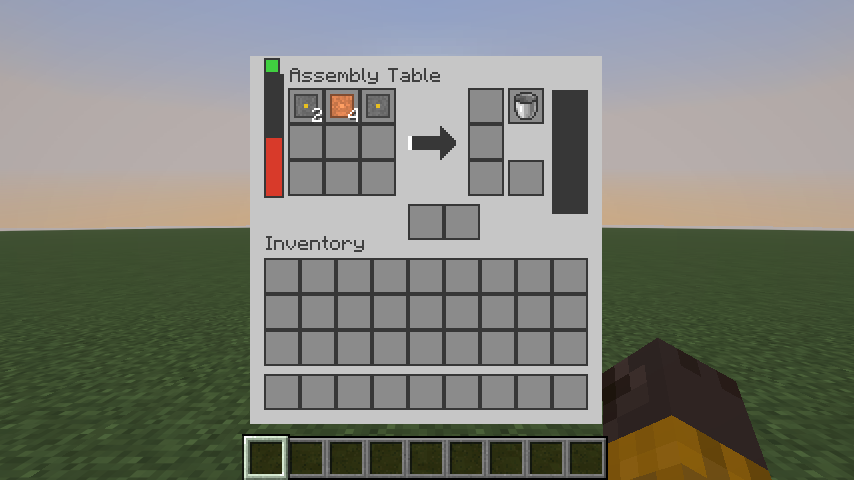
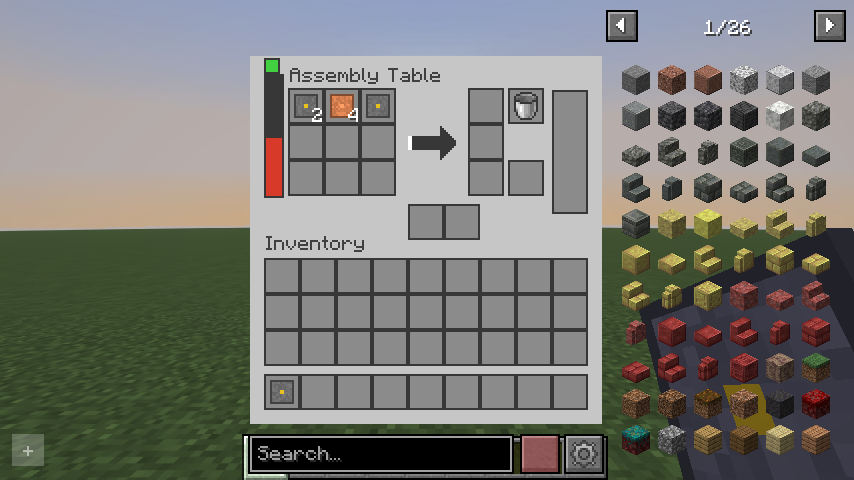
M2: Abschluss Meilenstein 2 (Teilschritt 2f), Testbericht M2d-M2f, neue README-Bilder
- step 2f: README-Status 2a-2f fertig, Abnahme offen (Pruefungen von Hand stehen in stand-m2.md)
- Testbericht docs/dev/testbericht-m2def.md: 54 Server-GameTests je Loader, 27 JUnit, Client-Tests mit JEI (NeoForge) und REI (Fabric), gefundene Fehler
- README: Taste H und JEI/REI; Bilder aus den Client-Tests aufgefrischt (Weltfoto, Montagetisch, Elektrolyseur, Raffinerie, Geisterprojektion) und Handbuch ergaenzt
- Skill: JEI/REI, Rezepte auf dem Client, Wiki-Pflicht; MachineScreen ohne ungenutzte Imports

diff --git a/common/src/main/java/de/sternenwerft/client/MachineScreen.java b/common/src/main/java/de/sternenwerft/client/MachineScreen.java
@@ -1,6 +1,5 @@
 package de.sternenwerft.client;
 
-import de.sternenwerft.Sternenwerft;
 import de.sternenwerft.block.MachineStatus;
 import de.sternenwerft.core.fluid.FluidIds;
 import de.sternenwerft.machine.MachineBlock;
@@ -10,7 +9,6 @@ import de.sternenwerft.menu.MachineGeometry;
 import de.sternenwerft.menu.MachineMenu;
 import de.sternenwerft.network.MachineConfigPayload;
 import de.sternenwerft.platform.Services;
-import de.sternenwerft.registry.ModFluids;
 import net.minecraft.client.gui.GuiGraphicsExtractor;
 import net.minecraft.client.gui.components.Button;
 import net.minecraft.client.gui.screens.inventory.AbstractContainerScreen;

diff --git a/docs/dev/testbericht-m2def.md b/docs/dev/testbericht-m2def.md
@@ -1,19 +1,22 @@
-# Testbericht: M2d (Montagetisch, Elektrolyseur, Raffinerie, Ports)
+# Testbericht: M2d bis M2f (Abschluss Meilenstein 2)
 
-Stand: 11.11.2026, Commit `3e18d9f`. Vorherige Runde: `docs/dev/testbericht-m2abc.md`.
+Stand: 11.11.2026. Client-Tests: NeoForge mit JEI auf 63a2337, Fabric mit REI auf c620fae (beide grün). Die Korrekturen aus der Sichtprüfung (JEI-Slotrahmen, REI-Fluide, Taste H) folgen in dc1f53b und dc527cc; deren CI-Läufe brachen ab, weil GitHub keinen Runner bereitstellte, und laufen mit dem nächsten Push erneut. Vorherige Runde: `docs/dev/testbericht-m2abc.md`.
 
 ## Ergebnis
 
 | Bereich | NeoForge | Fabric |
 | --- | --- | --- |
 | Build (beide Loader) | grün | grün |
-| JUnit (22 Tests, davon 4 neu) | grün | grün |
-| Server-GameTests (42 eigene + 1 vom Loader, davon 11 neu) | 43/43 (lokal) | 43/43 (lokal) |
-| Client-Test mit Screenshots | CI_NEOFORGE | CI_FABRIC |
+| JUnit (27 Tests, davon 13 neu) | grün | grün |
+| Server-GameTests (53 eigene + 1 vom Loader, davon 22 neu) | 54/54 | 54/54 |
+| Leistungstest 100 Zerkleinerer (Grenze 1 ms lokal, 3 ms auf GitHub) | lokal 0,43–0,50 ms | lokal 0,68–0,85 ms |
+| Client-Test mit Screenshots | bestanden (23/23 Prüfungen, mit JEI) | bestanden (20 Bilder, mit REI) |
+| `gen_resources.py`, `gen_wiki.py --check` | aktuell | aktuell |
 
-## Neue Server-GameTests
+Alle Beispielrezepte aus 27.2 laufen in einem GameTest-Durchlauf (Abschlusskriterium M2f): Zerkleinerer (Bauxit), Elektroofen (Quarzsand), Presse (Titanplatte), Elektrolyseur, Raffinerie, Montagetisch (Schaltkreis), Pumpe, Treibstoffgenerator, Akku, Kupferrohr, dazu die Kette Roh-Titan → Platte.
 
-Liste in `common/gametests.json`, Testlogik in `SwGameTestsM2d`.
+## M2d: neue Server-GameTests (`SwGameTestsM2d`)
+
 
 | Test | Prüft | Spez. | Zeit |
 | --- | --- | --- | --- |
@@ -29,7 +32,25 @@ Liste in `common/gametests.json`, Testlogik in `SwGameTestsM2d`.
 | electrolyzer_tankselection | Tankwahl unter den 2 Ausgangstanks, begrenzt, Sync-Wert stimmt | 4.1 | 20 |
 | tank_rejects_gas | Tank nimmt Kerosin, aber keinen Wasserstoff | 6.3 | 20 |
 
-## Neue JUnit-Tests (`M2dRulesTest`)
+## M2e und M2f: neue Server-GameTests (`SwGameTestsM2e`, `SwGameTestsM2f`)
+
+| Test | Prüft | Spez. | Zeit |
+| --- | --- | --- | --- |
+| fuelgenerator_kerosenebucket_80jt | Kerosin-Eimer im Leerslot: Tank gefüllt, leerer Eimer bleibt, genau 800 J in 10 t (80 J/t) | 27.3 M2e | 20 |
+| fuelgenerator_4mb_16ticks | 4 mB Kerosin reichen 16 t mit 80 J/t, danach `idle` | 27.2 | 30 |
+| battery_outputsideonly | Akku gibt nur über die Ausgangsseite ab: Zerkleinerer davor bekommt Energie, der seitliche nicht | 27.3 M2e, 4.4 | 20 |
+| battery_io512_platformapi | höchstens 512 J/t Eingang je Tick über die Loader-API; Ausgangsseite nimmt nichts an; Verbraucher nur mit Loader-API bekommt 5.120 J in 10 t | 27.2, 3.3 | 20 |
+| battery_chargeslot | Ladeslot nimmt nur ladbare Items; lädt das Loader-Test-Item und einen Akku als Item (Komponente) | 6.3 | 20 |
+| battery_broken_keepsenergy | abgebauter Akku behält 123.456 J als `sternenwerft:energy`; Platzieren stellt sie wieder her | 4.1 | 20 |
+| performance_100crushers_meantick | 100 laufende Zerkleinerer an 10 Kabelnetzen, Mittel der Tick-Zeit über 200 t ≤ 1 ms (GitHub 3 ms), eigene Testumgebung | 27.2 | 240 |
+| handbook_joingift_once | Handbuch-Geschenk genau einmal je Spieler | 24.1, 27.3 M2f | 20 |
+| crusher_bauxite_twoaluminumdustwithin220ticks | 1 Bauxit → 2 Aluminiumstaub | 27.2 | 220 |
+| furnace_quartzsand_siliconwithin110ticks | 1 Quarzsand → 1 Silizium im Elektroofen | 27.2 | 110 |
+| press_titaniumplatewithin110ticks | 1 Titanbarren + Pressform → 1 Titanplatte | 27.2 | 110 |
+
+## Neue JUnit-Tests
+
+Dazu kommen die 4 Tests aus `M2dRulesTest`:
 
 | Test | Prüft |
 | --- | --- |
@@ -37,10 +58,41 @@ Liste in `common/gametests.json`, Testlogik in `SwGameTestsM2d`.
 | exactMatchSumsSlotsAndRejectsSurplus | 64 + 32 = 96 Platten passt; Überschuss, fremdes Item, zu wenig passen nicht |
 | refineryPatternHas44PartsWithinNotifyRadius | Raffinerie-Muster aus `spec/data`: 44 Plätze, alle im Meldeabstand |
 | hollowPatternHasAirInside | Fusionsreaktor-Muster (`hollow_shell`): 97 Hüllenplätze + 27 Luft |
+| categoriesComeFromRecipeTypes | Kategorien der Rezeptanzeige aus den Rezeptarten, Katalysatoren aus machines.json (3.9) |
+| addonKindGetsOwnNamespace | Rezeptart eines Addons bekommt `jei.<namespace>.<art>` und ihre Maschine als Katalysator |
+| multiplierDoublesStackableIngredients | Multiplikator 2,0: 4 Platten → 8; unstapelbare bleiben; Begrenzung auf 9 Slots (22.3) |
+| parsesLinksItemsAndBold, boldAppliesToLinksAndUnclosedMarkupStaysText | Handbuch-Markup `[[…]]`, `<item:…>`, `**…**` (25.6) |
 
 ## Client-Tests
 
-CLIENT_SECTION
+Beide Client-Tests laufen bei jedem Push in der CI mit Software-Grafik (Mesa). Die Bilder liegen in den Branches `ci-screenshots` (Fabric) und `ci-screenshots-neoforge`.
+
+**NeoForge** (`NeoForgeClientTest`, mit JEI über `-PwithJei`): 23 Prüfungen, alle bestanden (Lauf für 63a2337).
+
+| Prüfung | Ergebnis |
+| --- | --- |
+| Config-Sync, Knopf „Seite“ (Server Nord → Süd), Knopf „Tank“ (Server wählt Tank 2) | ✔ |
+| GUIs öffnen per Rechtsklick: Tank (leer, mit Erdöl), Zerkleinerer, Elektroofen, Presse, Verbrennungsgenerator, Pumpe, Montagetisch, Elektrolyseur, Raffinerie, Treibstoffgenerator, Akku | ✔ 12 × |
+| Raffinerie per Daten-Muster aufgebaut, Aufbau vollständig; Sneak-Rechtsklick startet die Geisterprojektion ohne GUI | ✔ |
+| Handbuch: öffnen, einem Link folgen, Seite des Zerkleinerers finden; Geschenk höchstens einmal | ✔ |
+| JEI: Plugin aktiv, Rezepte vom Server angekommen, Kategorien Raffinieren und Montage öffnen sich | ✔ |
+
+**Fabric** (`SwClientGameTests`, mit REI über `-PwithRei`): bestanden, 20 Bilder (Lauf für c620fae).
+
+| Prüfung | Ergebnis |
+| --- | --- |
+| Handbuch-Geschenk beim ersten Join: genau eins im Inventar | ✔ |
+| Config-Sync, Knopf „Seite“, Knopf „Tank“ | ✔ |
+| GUIs aller Maschinen, Generatoren und Speicher, Raffinerie mit Geisterprojektion, Weltfoto mit allen Blöcken | ✔ 18 Bilder |
+| Handbuch: Willkommen, gefolgter Link, Seite des Zerkleinerers | ✔ |
+| REI: Plugin aktiv, Rezepte angekommen, Haken für Taste H gesetzt, Kategorien Raffinieren und Montage öffnen sich | ✔ |
+
+**Sichtprüfung der Screenshots:**
+
+- Handbuch: Inhaltsverzeichnis mit Kapiteln, Seite mit Fettdruck, Listen, Steckbrief, Rezept als Symbole (3 × 3-Raster der Werkbank), Bildlaufleiste. Im CI-Client (Englisch) stehen Titel auf Englisch, Seitentext auf Deutsch; englische Seiten kommen mit M9 (CLAUDE.md).
+- JEI: Raffinieren zeigt Erdöl → Kunststoff + Kerosin mit „200 t · 8000 J“, Montage den Schaltkreis mit Mengen. **Gefunden:** Der große Ausgaberahmen überdeckte den Kerosin-Slot daneben; behoben (normaler Rahmen).
+- REI: Kategorien mit Maschine als Werkbank, Mengen, Dauer und Energie. **Gefunden:** Fluid-Slots (Erdöl, Kerosin, Wasser) blieben leer, weil Architectury unter Fabric 26.3 nur eigene Fluide zeichnet; dazu ein überflüssiger „!“-Knopf. Behoben: eigener Zeichner (Farbfläche wie in den Maschinen-GUIs) und `removePlusButton`.
+- Treibstoffgenerator: Füllslot hat aus dem Tank einen Kerosin-Eimer gemacht, Brennzeit-Pfeil, Statuslampe grün. Akku: Ladeslot mit Akku-Item, Knopf „Seite“, kein Pfeil.
 
 ## Gefundene und behobene Fehler
 
@@ -48,9 +100,20 @@ CLIENT_SECTION
 | --- | --- | --- |
 | Maschinen, Kabel und Rohre ließen sich mit einer Holzspitzhacke abbauen (Tag `needs_stone_tool` fehlte, 4.1) | Prüfung der Tags beim Erweitern von `gen_resources` | M2d |
 | Rezepte ohne Item-Zutat hätte der Rezeptmanager nie gefunden (`RecipeInput#isEmpty`) | Durchsicht der 26.3-API vor dem Test | `MachineRecipeInput#isEmpty` zählt Tanks mit |
+| Upgrades des Elektrolyseurs lagen auf der Inventar-Beschriftung; Knopf „Tank“ zu schmal; Erdöl in der Leiste unsichtbar (schwarz auf dunkel) | Screenshots M2d | `MachineGeometry`, Knopf „T1–T3“ mit Tooltip, heller Leistenhintergrund |
+| Geisterprojektion im Screenshot nicht zu sehen (fehlender Block hinten oben) | Screenshots M2d | Client-Tests entfernen ein Gehäuse in der Vorderseite |
+| 100 Zerkleinerer brauchten 3,4 ms je Tick: Balance-JSON wurde jeden Tick gelesen, Maschinen jeden Tick neu eingerichtet, Komparator-Meldungen bei jedem `setChanged` | Leistungstest (27.2) mit Zeitmessung je Teil | Zwischenspeicher in `BalanceManager`, Neueinrichtung nur nach `/reload`, letztes Rezept zuerst, `setChanged` ohne Komparatoren: 0,4–0,9 ms |
+| Leistungstest maß die anderen 50 Tests mit | Messung über `onEachTick` | eigene Testumgebung (eigener Durchgang) und Server-eigene Tick-Zeit |
+| Kerosin-Eimer stapelte bis 64 statt 1 (4.1) | Prüfung von `items.json` beim Handbuch-Item | einfache Items übernehmen `max_stack` |
+| Client-Tests scheiterten an einem Ausfall des Ubuntu-Paketspiegels | CI (99f069b) | `apt-get` mit bis zu 3 Versuchen |
+| JEI: großer Ausgaberahmen überdeckte den Fluid-Slot daneben | Screenshot JEI (63a2337) | normaler Slotrahmen |
+| REI: Fluid-Slots leer, „!“-Knopf ohne Funktion | Screenshot REI (c620fae) | eigener Fluid-Zeichner, Knopf entfernt |
 
 ## Nicht automatisch geprüft
 
-- Aussehen der Geisterprojektion über längere Zeit (nur Momentaufnahme).
-- Trichter an Item-Ports in der echten Welt (geprüft über die Container-Schnittstelle).
-- Zusammenspiel der Ports mit Rohren und Kabeln fremder Mods.
+- **JEI unter Fabric und REI unter NeoForge:** Geprüft sind JEI unter NeoForge und REI unter Fabric; die Plugin-Logik ist dieselbe.
+- **EMI:** gibt es für 26.3 nicht (spec-gaps #33).
+- **Taste `H` per echtem Tastendruck:** Die Client-Tests prüfen nur, dass die Haken gesetzt sind und kein Suchfeld aktiv ist (spec-gaps #36).
+- **Aussehen der Geisterprojektion über längere Zeit** (nur Momentaufnahme).
+- **Trichter an Item-Ports in der echten Welt** (geprüft über die Container-Schnittstelle).
+- **Zusammenspiel mit echten fremden Mods** (Ports, Akku, Ladeslot): geprüft mit Test-Verbraucher und Test-Item über die Loader-APIs.

diff --git a/docs/dev/stand-m2.md b/docs/dev/stand-m2.md
@@ -70,13 +70,31 @@ Stand: 11.11.2026. Umfang und Teilschritte stehen in `docs/spec/27-meilensteine.
   - `gen_placeholders.py` überschreibt vorhandene Texturen nur noch mit `--force`, damit fertige Grafiken sicher sind.
   - **Annahmen:** spec-gaps #30 bis #32.
 
+- **M2f:** Rezeptanzeige, Handbuch, Abschluss.
+  - **Mengen-Multiplikator** (`AmountMultiplier`, reine Funktion) im exakten Abgleich des Montagetischs und in allen Anzeigen.
+  - **Rezeptanzeige:**
+    - Der Server schickt die eigenen Rezeptarten zum Client (`ClientRecipes`). `RecipeView` bereitet sie für JEI und REI gleich auf.
+    - Plugins für JEI (31.17.0.109) und REI (26.3.824), nur `compileOnly`. EMI gibt es für 26.3 nicht.
+    - Addons zeigen eigene Arten mit `SternenwerftApi.showInRecipeViewers(kind)`.
+  - **Handbuch:**
+    - `HandbookMarkup` (reine Funktion) und `HandbookData` (Seiten aller Namespaces).
+    - `HandbookScreen` mit Inhaltsverzeichnis, Suche, Links, Item-Links, Rezepten, Steckbriefen, Tabellen, Hinweiskästen, Zurück und Lesezeichen.
+    - Taste `H` über Items in Inventaren, Tooltip-Hinweis, Geschenk beim ersten Join.
+  - **Items:** `engineers_handbook` und `planetary_atlas` registriert; einfache Items übernehmen `max_stack` aus items.json (Kerosin-Eimer stapelt bis 1).
+  - **Tests:** Join-Geschenk, die drei noch fehlenden Beispielrezepte aus 27.2, JUnit für Kategorien, Multiplikator und Markup. Client-Tests öffnen das Handbuch und folgen einem Link; der NeoForge-Client-Test lädt JEI (`-PwithJei`) und fotografiert die Kategorien.
+  - **Annahmen:** spec-gaps #33 bis #37.
+
 - **Testrunde M1–M2c:** 31 Server-GameTests auf beiden Loadern, 18 JUnit-Tests, Client-Tests auf Fabric **und NeoForge** (Knopf-Klick, Config-Sync, alle GUIs mit Screenshots), alles grün. Bericht: `docs/dev/testbericht-m2abc.md`.
 
-## Noch manuell zu prüfen
+## Noch manuell zu prüfen (Abnahme M2)
 
-- Bauxit kommt in der Savanne vor (27.3).
-- GUIs im echten Client bedienen (Shift-Klick, Trichter).
+Alles andere prüfen die GameTests und Client-Tests bei jedem Push (`docs/dev/testbericht-m2def.md`).
+
+- Bauxit kommt in der Savanne vor: mindestens 6 Adern in 25 Chunks nach `/locate biome minecraft:savanna` (27.3 M2b).
+- GUIs mit Maus bedienen: Ziehen und Ablegen, Shift-Klick, Trichter an Item-Ports.
+- Taste `H` per echtem Tastendruck im Inventar, in JEI und in REI; beim Tippen in Suchfeldern darf das Handbuch nicht aufgehen.
+- Geisterprojektion über die volle Dauer ansehen (200 t).
 
 ## Nächster Schritt
 
-M2f: JEI/REI/EMI-Kategorien, `recipe_amount_multiplier`, Übersetzungen, Handbuch- und Atlas-Items, Abschlusslauf aller Beispielrezepte (27.3). Die Annahmen stehen in `docs/spec-gaps.md` bis #32.
+Meilenstein 3 (Erste Welt): Planeten-Registry, Mond, Schwerkraft, Umweltsystem, HUD, Anzug T1, Sauerstoffgenerator, Kuppel T1, Kanister in Füll- und Leerslots, Agentur-Kern (27). Die Annahmen stehen in `docs/spec-gaps.md` bis #37.

diff --git a/README.md b/README.md
@@ -45,7 +45,7 @@ Dazwischen liegt eine Reise durch das echte Sonnensystem: Du baust auf der Erde 
 | 🛰 **Raumstationen** | Eigene Stationen im Orbit mit Schwerelosigkeit, Solarflügeln, Fusionsreaktor und Schwerelos-Fertigung. |
 | 📦 **Logistik-Netz** | Außenposten, Bohrtürme und Frachtraketen versorgen deine Kolonien, auch wenn du nicht vor Ort bist. |
 | 🤝 **Mehrspieler** | Agenturen teilen Forschung, Atlas und Frachtnetz. Handel zwischen Agenturen. |
-| 📖 **Handbuch im Spiel** | Das Ingenieurs-Handbuch erklärt jede Maschine mit Rezepten und Links. Es ist dasselbe wie das [Wiki](docs/wiki/README.md). |
+| 📖 **Handbuch im Spiel** | Das Ingenieurs-Handbuch erklärt jede Maschine mit Rezepten und Links. Es ist dasselbe wie das [Wiki](docs/wiki/README.md). Taste **H** über einem Item öffnet seine Seite. Alle Maschinenrezepte stehen auch in **JEI** und **REI**. |
 
 <p align="center">
   <img src="docs/images/solar-system.svg" alt="Das Sonnensystem in Sternenwerft" width="100%">
@@ -76,6 +76,11 @@ Der ganze Ablauf mit allen Rezepten steht im Wiki unter [Erste Schritte](docs/wi
 </p>
 
 <p align="center">
+  <img src="docs/images/screenshots/handbook.png" alt="Ingenieurs-Handbuch im Spiel: Seite des Zerkleinerers" width="32%">
+  <img src="docs/images/screenshots/gui-electrolyzer.png" alt="Elektrolyseur mit drei Tanks" width="32%">
+</p>
+
+<p align="center">
   <img src="docs/images/refinery.svg" alt="Bauplan der Raffinerie" width="70%">
 </p>
 
@@ -87,7 +92,7 @@ Sternenwerft wird Meilenstein für Meilenstein nach einer festen [Spezifikation]
 | Meilenstein | Inhalt | Stand |
 | --- | --- | --- |
 | 1 | Grundgerüst: Multiloader, Energie, erste Maschine | ✅ fertig |
-| 2 | Erdindustrie: Maschinen, Erze, Fluide, Raffinerie, Montagetisch, Handbuch | 🔨 in Arbeit (2a–2e fertig, 2f offen) |
+| 2 | Erdindustrie: Maschinen, Erze, Fluide, Raffinerie, Montagetisch, Handbuch | 🔨 in Arbeit (2a–2f fertig, Abnahme offen) |
 | 3 | Erste Welt: Mond, Anzug, Kuppel | ⏳ geplant |
 | 4 | Erster Flug: Forschung, Sonde, Rakete T1 · **erste spielbare Version** | ⏳ geplant |
 | 5 | Ring 1: Mars, Venus, Rover, Kreaturen | ⏳ geplant |

diff --git a/.claude/skills/minecraft-mod-ci-screenshots/SKILL.md b/.claude/skills/minecraft-mod-ci-screenshots/SKILL.md
@@ -72,6 +72,8 @@ Datei: `fabric/src/main/java/de/sternenwerft/gametest/SwClientGameTests.java`. S
   - Testlogik steht in `common/.../gametest/SwGameTests*.java` (statische Methoden mit `GameTestHelper`).
   - Optionale Felder `structure` (z. B. `sternenwerft:gametest/empty_large`, 24 × 6 × 24, aus `gen_resources`) und `environment`. Ein Test mit eigener Umgebung läuft allein in einem eigenen Durchgang. Fabric braucht die Umgebung als JSON unter `fabric/src/main/resources/data/<ns>/test_environment/`; NeoForge registriert sie per `registerEnvironment`.
   - **Leistung messen:** `getServer().getAverageTickTimeNanos()` (Server-eigene Messung, Mittel der letzten 100 Ticks). Abstände zwischen `onEachTick`-Aufrufen enthalten alle anderen Tests und den Testrahmen.
+- **JEI/REI:** Nur `compileOnly` über `build-logic` (die Loader-Projekte übersetzen den gemeinsamen Code mit, daher dort und nicht in `common/build.gradle`). JEI läuft zur Laufzeit nur mit `-PwithJei` (CI-Job des NeoForge-Client-Tests). ModDevGradle kennt in 26.3 keinen Zusatz-Classpath je Run mehr. JEI braucht die Gruppe `net.mezzdev` aus maven.blamejared.com.
+- **Rezepte auf dem Client:** Seit 1.21.2 schickt der Server nur ausgewählte Rezepte. Eigene Arten über `RecipeKinds.register` (NeoForge `OnDatapackSyncEvent#sendRecipes`, Fabric `RecipeSynchronization`); lesen über `ClientRecipes`.
 - **Wiki-Pflicht:** Neue Blöcke, Items oder Fluide müssen auf einer Handbuchseite stehen (`docs/handbook/pages`). Nach jedem Teilschritt `python tools/gen_wiki.py`, sonst wird der Job `spec` rot (Details in `CLAUDE.md`).
 
 ## 5. Bekannte Stolperstellen in 26.3

diff --git a/docs/wiki/README.md b/docs/wiki/README.md
@@ -17,7 +17,7 @@ Alle Rezepte auf einen Blick stehen unter [Alle Rezepte](Alle-Rezepte.md), Hilfe
 
 Das Wiki zur Raumfahrt-Mod **Minecraft New Horizon – Sternenwerft**. Alle Inhalte stehen auch im Spiel im **Ingenieurs-Handbuch**; Rezepte und Werte kommen direkt aus den Daten der Mod und sind damit immer aktuell.
 
-> Stand: Meilenstein 2e · Mod-Version 0.1.0
+> Stand: Meilenstein 2f · Mod-Version 0.1.0
 
 ## Willkommen
 
